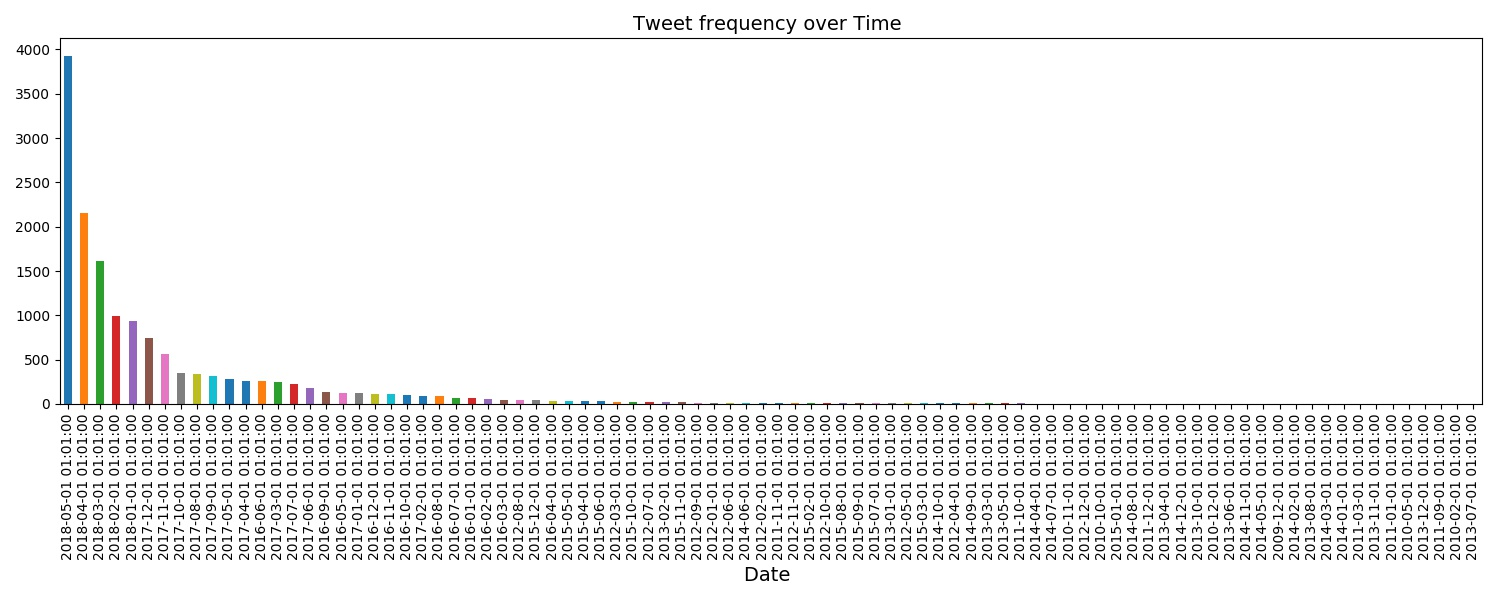
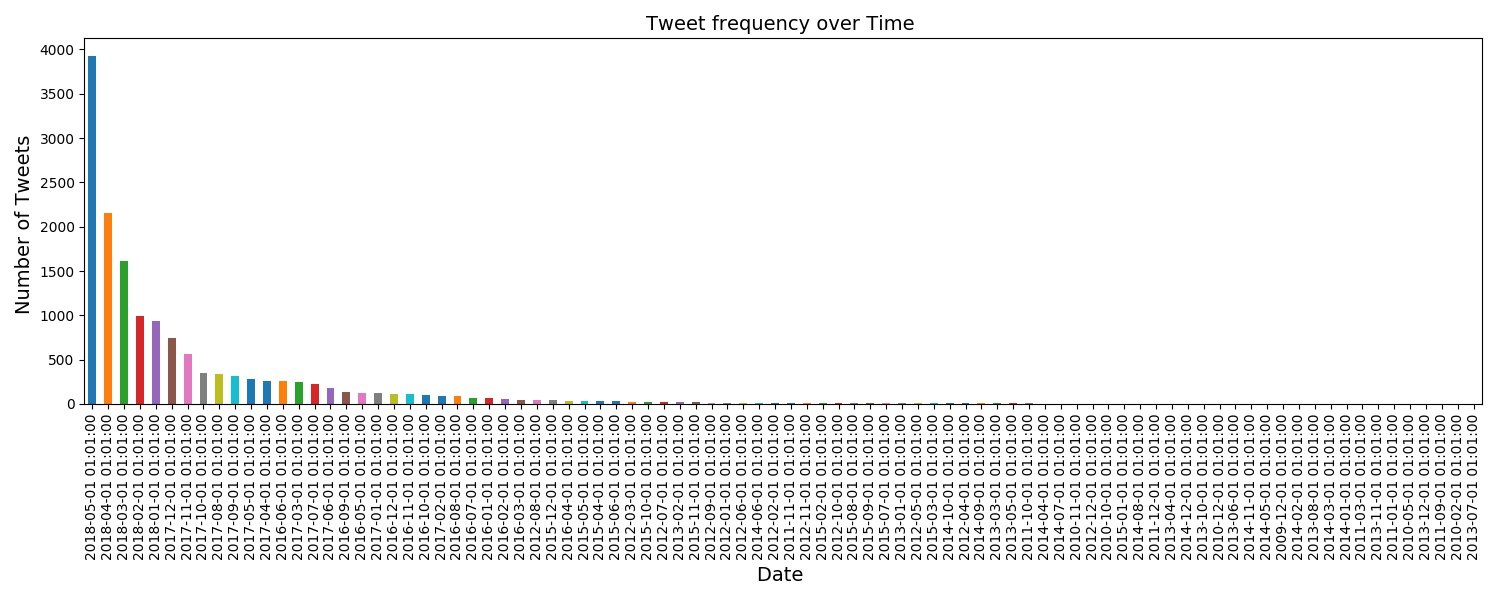
jayaho

Changed region(s): [[0.0, 0.06, 0.9813, 0.99], [0.4293, 0.03, 0.6133, 0.06]]

diff --git a/index.html b/index.html
@@ -43,7 +43,7 @@ ul li{
 
     <ul> 
         <li> The temporal spread is too skewed. Almost all of the tweets are from the past 2 months, discouraging trend-analysis </li>
-        <li> We can see check for some user-follower-insights</li>
+        <li> A quick visualization of user popularity -- with number of followers as a proxy for popularity</li>
     </ul>
 
    <table style="width:75%">  
@@ -58,7 +58,7 @@ ul li{
 
 
 
-<h2> NLP analysis </h2>
+<h2> Linguistic Analysis -- Topic discovery </h2>
     <p>
     If there is more of historical data, tweets can be analysed for trends in hashtag usage, topic evolution, language changes..etc.
     From a linguistic angle, topic discovery is the most interesting. After experimenting, I settled with the number of topics as 6. 
@@ -88,7 +88,6 @@ ul li{
         <li> The follower count analysis was interesting and helped discover the leaders of the community such as Hillary Mason</li>
         <li> Topic discovery showed some interesting insights such as the strong associations such as (Google-Related, Tensorflow)  and
             (Academic, icmlconf). A surprising observations is the weak association in (Videos/Graphics, Tensorflow). More manual analysis is needed to explain these phenomenon.
-      <li> The next step is to find the relation between hashtags and the discovered topics from tweet-text. This is is going to be helpful in interpreting a popular hashtag subjectively, for latent inherent concepts that drive it.  </li>
     </ul>
     
 

diff --git a/data_characteristics.py b/data_characteristics.py
@@ -30,6 +30,7 @@ monthly_counts = data['yymm']
 ##monthly_counts.value_counts().reset_index().sort_values(by="index").set_index("index")
 monthly_counts.value_counts().plot(ax=axes, kind='bar', sort_columns=False)
 plt.title( "Tweet frequency over Time ", fontsize=14, y=1.0)
+axes.set_ylabel("Number of Tweets ", fontsize=14)
 axes.set_xlabel("Time (Each bar denotes number of tweets in a given month)", fontsize=14)
 axes.set_xlabel("Date ", fontsize=14)
 fig.tight_layout()
@@ -41,6 +42,7 @@ fig, axes = plt.subplots(figsize=(15,6))
 data['poster_name'].value_counts().plot(ax=axes, kind='bar')
 #plt.setp(axes[0].get_xticklabels(), visible=False)
 plt.title( "Tweet frequency over user-space ", fontsize=14, y=1.0)
+axes.set_ylabel("Number of Tweets ", fontsize=14)
 axes.set_xlabel("Time (Each bar denotes number of tweets made by a user)", fontsize=14)
 axes.set_xlabel("User ", fontsize=14)
 fig.tight_layout()
